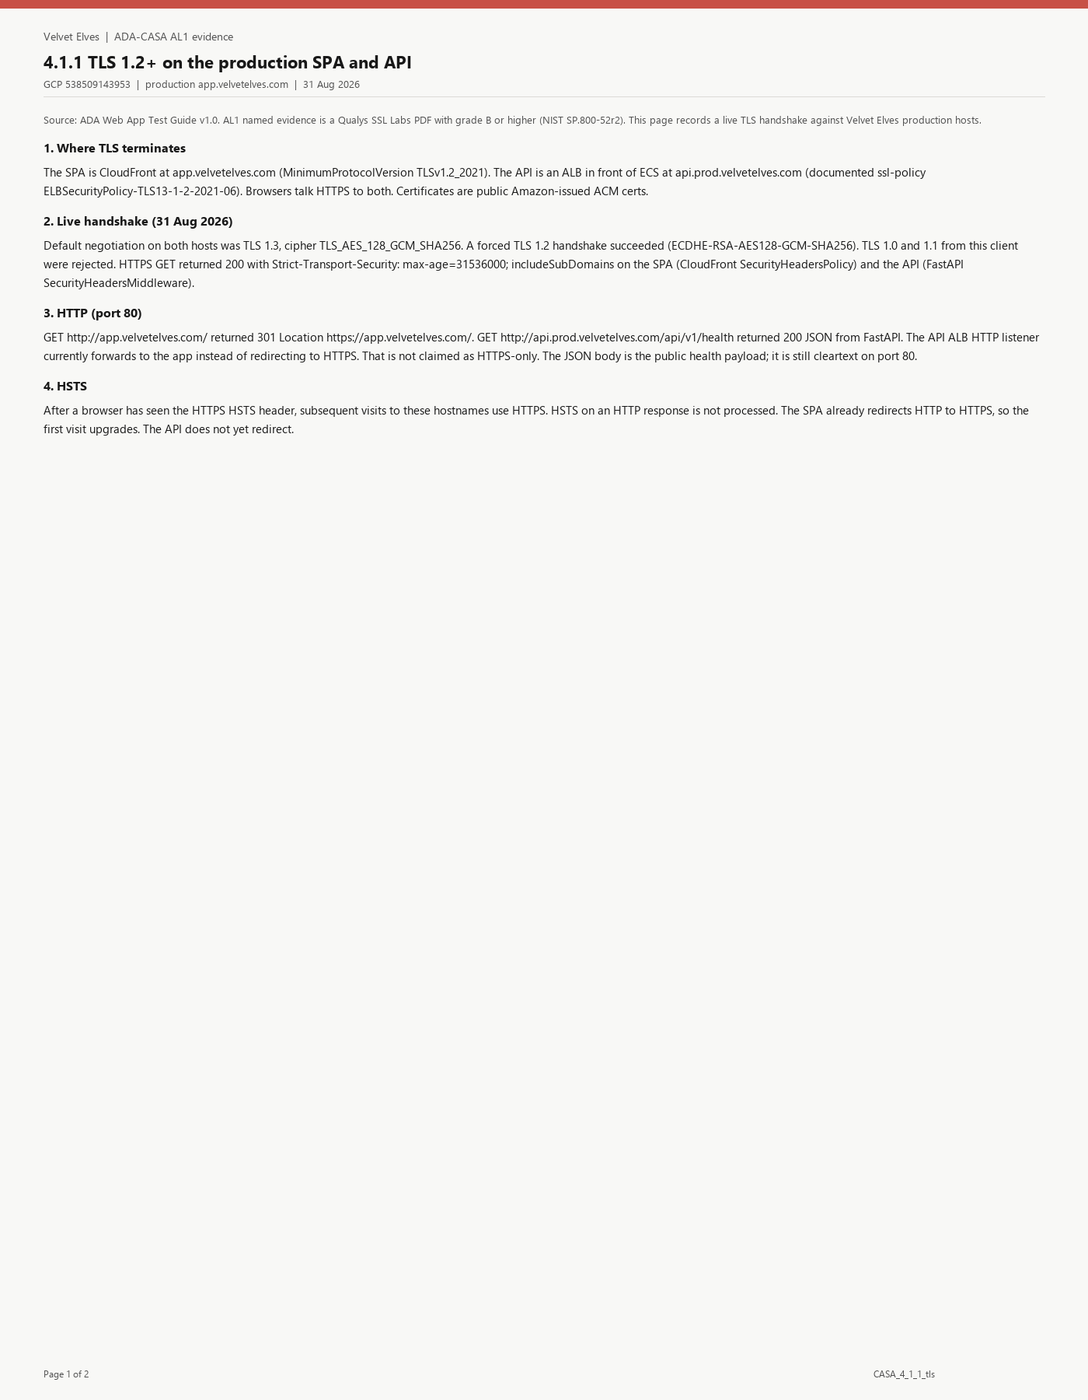
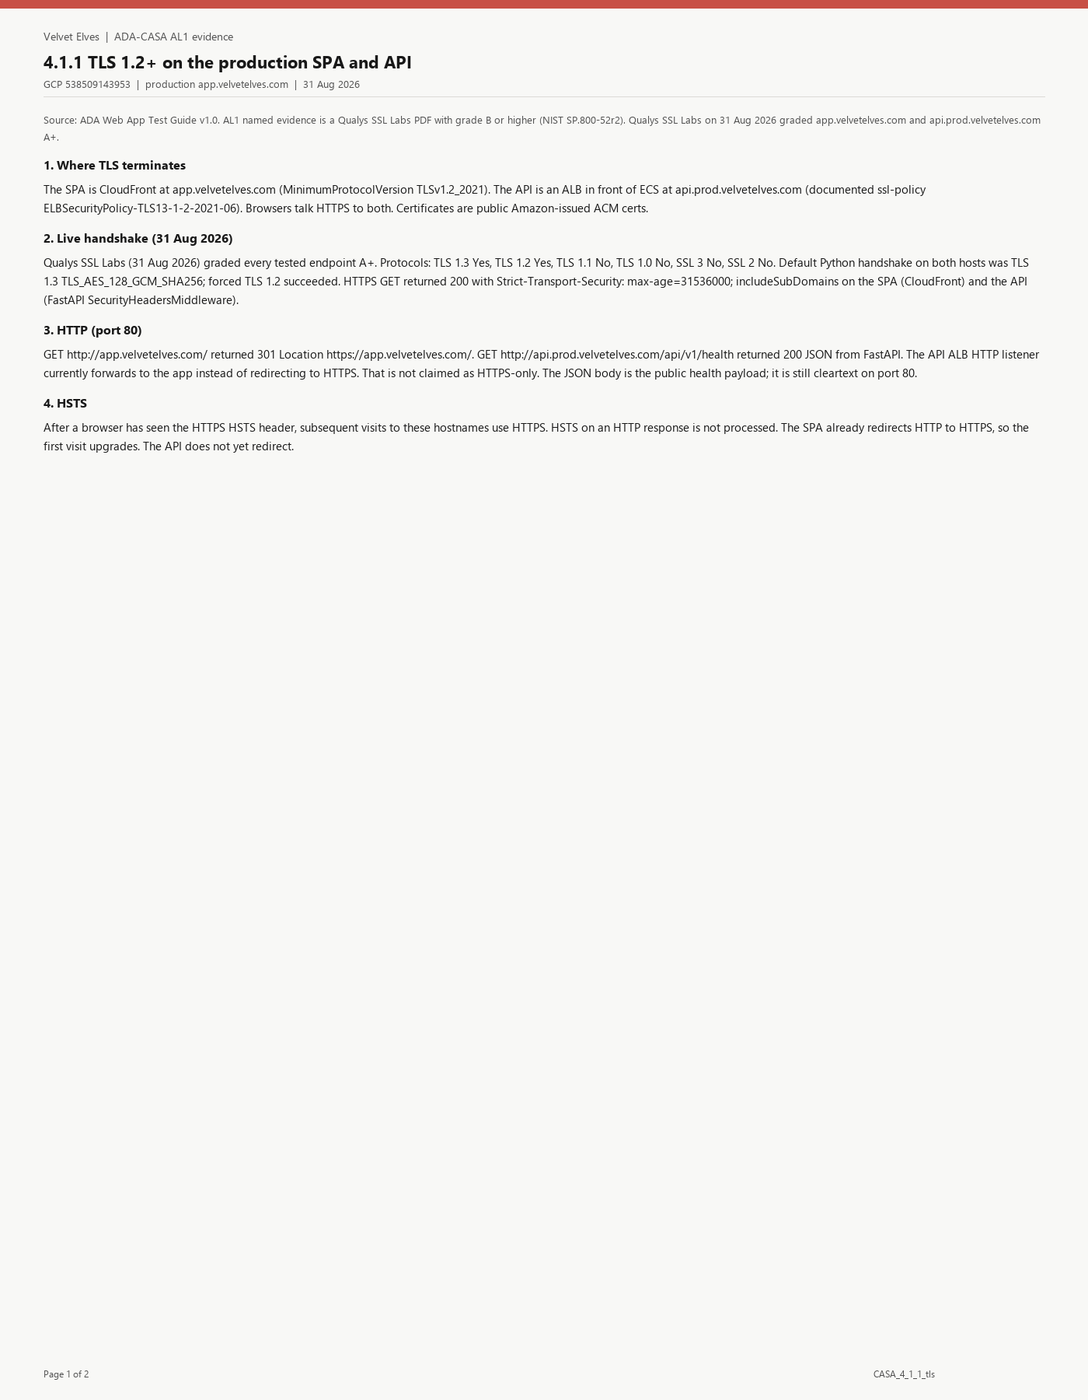
docs(casa): add Qualys SSL Labs A+ screenshots for 4.1.1

Changed region(s): [[0.0307, 0.0933, 0.9521, 0.3111], [0.6757, 0.0622, 0.7064, 0.0933]]

diff --git a/casa_auth_qa/render_casa_411_pages.py b/casa_auth_qa/render_casa_411_pages.py
@@ -99,7 +99,7 @@ def page1():
         y,
         [
             (
-                "Source: ADA Web App Test Guide v1.0. AL1 named evidence is a Qualys SSL Labs PDF with grade B or higher (NIST SP.800-52r2). This page records a live TLS handshake against Velvet Elves production hosts.",
+                "Source: ADA Web App Test Guide v1.0. AL1 named evidence is a Qualys SSL Labs PDF with grade B or higher (NIST SP.800-52r2). Qualys SSL Labs on 31 Aug 2026 graded app.velvetelves.com and api.prod.velvetelves.com A+.",
                 F_SMALL,
                 MUTED,
             ),
@@ -127,7 +127,7 @@ def page1():
         y,
         [
             (
-                "Default negotiation on both hosts was TLS 1.3, cipher TLS_AES_128_GCM_SHA256. A forced TLS 1.2 handshake succeeded (ECDHE-RSA-AES128-GCM-SHA256). TLS 1.0 and 1.1 from this client were rejected. HTTPS GET returned 200 with Strict-Transport-Security: max-age=31536000; includeSubDomains on the SPA (CloudFront SecurityHeadersPolicy) and the API (FastAPI SecurityHeadersMiddleware).",
+                "Qualys SSL Labs (31 Aug 2026) graded every tested endpoint A+. Protocols: TLS 1.3 Yes, TLS 1.2 Yes, TLS 1.1 No, TLS 1.0 No, SSL 3 No, SSL 2 No. Default Python handshake on both hosts was TLS 1.3 TLS_AES_128_GCM_SHA256; forced TLS 1.2 succeeded. HTTPS GET returned 200 with Strict-Transport-Security: max-age=31536000; includeSubDomains on the SPA (CloudFront) and the API (FastAPI SecurityHeadersMiddleware).",
                 F_BODY,
                 INK,
             ),
@@ -186,6 +186,11 @@ def page2():
             True,
         ),
         (
+            "Qualys SSL Labs",
+            "31 Aug 2026: app.velvetelves.com A+ on all CloudFront IPs. api.prod.velvetelves.com A+ on both ALB IPs. TLS 1.3 and 1.2 Yes; TLS 1.1, 1.0, SSL 3, SSL 2 No.",
+            True,
+        ),
+        (
             "API HTTP listener",
             "Port 80 still reaches FastAPI (GET /api/v1/health returned 200 JSON). Not claimed as HTTPS-only.",
             False,
@@ -210,7 +215,7 @@ def page2():
         y,
         [
             (
-                "Velvet Elves production 443 defaults to TLS 1.3, accepts TLS 1.2, and sends HSTS. The SPA upgrades HTTP to HTTPS. The API HTTP listener still forwards to FastAPI on port 80. A Qualys SSL Labs PDF of both hostnames is the ADA-named AL1 evidence for the full protocol and cipher matrix.",
+                "Velvet Elves production 443 defaults to TLS 1.3, accepts TLS 1.2, and sends HSTS. Qualys SSL Labs graded both production hostnames A+ (TLS 1.3 and 1.2 enabled; TLS 1.1 and 1.0 disabled). The SPA upgrades HTTP to HTTPS. The API HTTP listener still forwards to FastAPI on port 80.",
                 F_BODY,
                 INK,
             ),
@@ -268,7 +273,8 @@ test_security_headers_on_not_found
   GET /api/v1/does-not-exist still sends nosniff and X-Frame-Options
 
 Live 31 Aug 2026 (production, not these unit tests):
-  TLS 1.3 default, TLS 1.2 accepted, TLS 1.0/1.1 rejected
+  Qualys SSL Labs A+ on app.velvetelves.com and api.prod.velvetelves.com
+  TLS 1.3 and 1.2 Yes; TLS 1.1 / 1.0 / SSL 3 / SSL 2 No
   SPA HTTP 301 to HTTPS
   API HTTP /api/v1/health 200 (ALB does not redirect yet)"""
     lines = snippet.split("\n")

diff --git a/casa_auth_qa/casa_411_caption_ssllabs.py b/casa_auth_qa/casa_411_caption_ssllabs.py
@@ -1,0 +1,37 @@
+"""Add a hostname caption above SSL Labs protocol screenshots (does not cover Qualys UI)."""
+from pathlib import Path
+
+from PIL import Image, ImageDraw, ImageFont
+
+OUT = Path(r"c:\Projects\velvet-elves-data\casa_al1_evidence\m9\tac_images\4.1.1")
+BANNER = 64
+BG = (248, 248, 246)
+INK = (24, 24, 24)
+MUTED = (80, 80, 80)
+RULE = (200, 80, 70)
+
+
+def font(size: int, bold: bool = False):
+    name = "segoeuib.ttf" if bold else "segoeui.ttf"
+    p = Path(rf"C:\Windows\Fonts\{name}")
+    if p.exists():
+        return ImageFont.truetype(str(p), size)
+    return ImageFont.load_default()
+
+
+def caption(name: str, title: str) -> None:
+    src = OUT / name
+    im = Image.open(src).convert("RGB")
+    out = Image.new("RGB", (im.width, im.height + BANNER), BG)
+    d = ImageDraw.Draw(out)
+    d.rectangle((0, 0, im.width, 8), fill=RULE)
+    d.text((24, 18), title, font=font(16, True), fill=INK)
+    d.text((24, 40), "Qualys SSL Labs configuration  |  31 Aug 2026", font=font(12), fill=MUTED)
+    out.paste(im, (0, BANNER))
+    out.save(src, "PNG")
+    print("captioned", src)
+
+
+if __name__ == "__main__":
+    caption("CASA_4_1_1_ssllabs_app_protocols.png", "app.velvetelves.com  (endpoint 65.8.20.108)")
+    caption("CASA_4_1_1_ssllabs_api_protocols.png", "api.prod.velvetelves.com  (endpoint 3.148.31.71)")

diff --git a/casa_al1_evidence/m9/CASA_PORTAL_PACK.md b/casa_al1_evidence/m9/CASA_PORTAL_PACK.md
@@ -51,7 +51,7 @@ Global do-not-claim (these rows): HttpOnly session cookies; MFA default for **al
 | 24 | 3.2.1 | OAuth authorization code + PKCE | 5 | `CASA_3_2_1_oauth_pkce.md` |
 | 25 | 3.2.2 | OAuth redirect_uri and state | 5 | `CASA_3_2_2_redirect_state.md` |
 | 26 | 3.3.1 | Admin MFA on platform console | 10 | `CASA_3_3_1_admin_mfa.md` |
-| 27 | 4.1.1 | TLS 1.2+ | 5 | `CASA_4_1_1_tls.md` |
+| 27 | 4.1.1 | TLS 1.2+ | 9 | `CASA_4_1_1_tls.md` |
 
 ---
 
@@ -943,31 +943,32 @@ The application administrative interface is the platform console (/api/v1/platfo
 
 **Claimed controls**
 
-- SPA CloudFront `app.velvetelves.com`: TLS 1.3 default, TLS 1.2 accepted, HTTP **301** to HTTPS, HSTS `max-age=31536000; includeSubDomains`.
-- API ALB `api.prod.velvetelves.com`: TLS 1.3 default, TLS 1.2 accepted, HTTPS HSTS from `SecurityHeadersMiddleware`.
-- Certificates: Amazon ACM (public).
-- Live 31 Aug 2026 handshake: `TLS_AES_128_GCM_SHA256` (1.3); forced 1.2 `ECDHE-RSA-AES128-GCM-SHA256`. TLS 1.0/1.1 rejected by this client.
+- Qualys SSL Labs 31 Aug 2026: **A+** on every tested endpoint of `app.velvetelves.com` and `api.prod.velvetelves.com`. TLS 1.3 and 1.2 Yes; TLS 1.1, TLS 1.0, SSL 3, SSL 2 No.
+- SPA CloudFront: HTTP **301** to HTTPS, HSTS `max-age=31536000; includeSubDomains`.
+- API ALB: HTTPS HSTS from `SecurityHeadersMiddleware`. Certificates: Amazon ACM (public).
 
-**Do not claim:** a Qualys letter grade until S5/S6 PNGs are in the folder; that the API is HTTPS-only (HTTP `GET /api/v1/health` returned **200** JSON on 31 Aug 2026); full NIST cipher matrix from this handshake; HttpOnly session cookies.
+**Do not claim:** that the API is HTTPS-only (HTTP `GET /api/v1/health` returned **200** JSON); that the API has no Qualys-flagged weak ciphers (two TLS 1.2 CBC suites are WEAK; grade is still A+); HttpOnly session cookies.
 
-**Owner (S5/S6):** screenshot finished Qualys scans of `app.velvetelves.com` and `api.prod.velvetelves.com` as `CASA_4_1_1_ssllabs_app.png` / `CASA_4_1_1_ssllabs_api.png`. Copy the same two into `tac_images/4.1.2/` for the next row. Do not ask the agent to open ssllabs.com. Also set the API ALB HTTP:80 listener to redirect to HTTPS (already in the production deploy plan).
-
-**Helpers:** `casa_auth_qa/render_casa_411_pages.py`, `casa_411_tls.py`
+**Helpers:** `casa_auth_qa/render_casa_411_pages.py`, `casa_411_tls.py`, `casa_411_ssllabs.mjs` (one host at a time), `casa_411_caption_ssllabs.py` (run once after a fresh protocol shot).
 
 ### Images
 
 | File | Description |
 | --- | --- |
-| [`tac_images/4.1.1/CASA_4_1_1_page1.png`](tac_images/4.1.1/CASA_4_1_1_page1.png) | Written evidence page 1 of 2. TLS termination, live handshake, HTTP port 80, HSTS. |
+| [`tac_images/4.1.1/CASA_4_1_1_page1.png`](tac_images/4.1.1/CASA_4_1_1_page1.png) | Written evidence page 1 of 2. TLS termination, Qualys A+, HTTP port 80, HSTS. |
 | [`tac_images/4.1.1/CASA_4_1_1_page2.png`](tac_images/4.1.1/CASA_4_1_1_page2.png) | Written evidence page 2 of 2. AL1 mapping. API HTTP listener not claimed as HTTPS-only. |
 | [`tac_images/4.1.1/CASA_4_1_1_code.png`](tac_images/4.1.1/CASA_4_1_1_code.png) | FastAPI HSTS middleware; CloudFront TLSv1.2_2021; ALB TLS 1.3/1.2 policy. |
-| [`tac_images/4.1.1/CASA_4_1_1_tests.png`](tac_images/4.1.1/CASA_4_1_1_tests.png) | Named HSTS tests plus live TLS/HTTP notes. |
+| [`tac_images/4.1.1/CASA_4_1_1_tests.png`](tac_images/4.1.1/CASA_4_1_1_tests.png) | Named HSTS tests plus live TLS/Qualys notes. |
 | [`tac_images/4.1.1/CASA_4_1_1_tls.png`](tac_images/4.1.1/CASA_4_1_1_tls.png) | Live production handshake: TLS 1.3/1.2, HSTS, SPA 301, API HTTP health 200. |
+| [`tac_images/4.1.1/CASA_4_1_1_ssllabs_app.png`](tac_images/4.1.1/CASA_4_1_1_ssllabs_app.png) | Qualys SSL Labs: app.velvetelves.com, all endpoints A+. |
+| [`tac_images/4.1.1/CASA_4_1_1_ssllabs_app_protocols.png`](tac_images/4.1.1/CASA_4_1_1_ssllabs_app_protocols.png) | Qualys: SPA TLS 1.3/1.2 Yes; TLS 1.1/1.0 and SSL 3/2 No. |
+| [`tac_images/4.1.1/CASA_4_1_1_ssllabs_api.png`](tac_images/4.1.1/CASA_4_1_1_ssllabs_api.png) | Qualys SSL Labs: api.prod.velvetelves.com, both endpoints A+. |
+| [`tac_images/4.1.1/CASA_4_1_1_ssllabs_api_protocols.png`](tac_images/4.1.1/CASA_4_1_1_ssllabs_api_protocols.png) | Qualys: API TLS 1.3/1.2 Yes; TLS 1.1/1.0 and SSL 3/2 No. |
 
 ### Portal comment
 
 ```
-The production SPA (app.velvetelves.com) and API (api.prod.velvetelves.com) terminate TLS on CloudFront and an ALB. On 31 Aug 2026 a live handshake negotiated TLS 1.3 (TLS_AES_128_GCM_SHA256) on both hosts; TLS 1.2 was also accepted. HTTPS responses send Strict-Transport-Security: max-age=31536000; includeSubDomains. HTTP on the SPA returns 301 to HTTPS. HTTP on the API currently reaches FastAPI (GET /api/v1/health returned 200 JSON); that listener is not claimed as HTTPS-only. Certificates are Amazon ACM.
+The production SPA (app.velvetelves.com) and API (api.prod.velvetelves.com) terminate TLS on CloudFront and an ALB. Qualys SSL Labs on 31 Aug 2026 graded every tested endpoint A+ (TLS 1.3 and 1.2 enabled; TLS 1.1, TLS 1.0, SSL 3, and SSL 2 disabled). HTTPS responses send Strict-Transport-Security: max-age=31536000; includeSubDomains. HTTP on the SPA returns 301 to HTTPS. HTTP on the API currently reaches FastAPI (GET /api/v1/health returned 200 JSON); that listener is not claimed as HTTPS-only. Certificates are Amazon ACM.
 ```
 
 ---
@@ -1004,6 +1005,6 @@ From `casa_auth_qa/` (headless Chrome; one page at a time):
 | 3.2.1 | `python render_casa_321_pages.py` then `python casa_321_pkce.py`. Do **not** attach `/login`. Do **not** recapture Google Cloud Console. Do **not** complete OAuth. |
 | 3.2.2 | `python render_casa_322_pages.py` then `python casa_322_deny.py`. Do **not** attach `/login`. Do **not** recapture Google Cloud Console. Do **not** complete OAuth. |
 | 3.3.1 | `python render_casa_331_pages.py` then `python casa_331_deny.py`. Prod UI: `node casa_331_prod_enroll_shots.mjs` (`QA_PASSWORD`). Folder is the upload set only. |
-| 4.1.1 | `python render_casa_411_pages.py` then `python casa_411_tls.py`. Do **not** recapture ssllabs.com. Owner drops `CASA_4_1_1_ssllabs_app.png` / `ssllabs_api.png` when captured. |
+| 4.1.1 | `python render_casa_411_pages.py` then `python casa_411_tls.py`. SSL Labs: `node casa_411_ssllabs.mjs app` then `node casa_411_ssllabs.mjs api`, then `python casa_411_caption_ssllabs.py` once. |
 
 Eyeball every PNG for cut-off text before re-upload.

diff --git a/casa_al1_evidence/m9/CASA_4_1_1_tls.md b/casa_al1_evidence/m9/CASA_4_1_1_tls.md
@@ -4,23 +4,30 @@
 **ASVS:** 9.1.2  
 **Date:** 31 Aug 2026  
 
-ADA: the application shall enforce TLS for all connections and default to TLS 1.2+. AL1 named evidence is a **Qualys SSL Labs PDF export**, typically grade **B or higher**, reviewed against NIST SP.800-52r2.
+ADA: the application shall enforce TLS for all connections and default to TLS 1.2+. AL1 named evidence is a **Qualys SSL Labs PDF export**, typically grade **B or higher**, reviewed against NIST SP.800-52r2. Portal accepts PNG only; the finished SSL Labs HTML reports were captured as PNG.
 
-## What was measured on Velvet Elves hosts (31 Aug 2026)
+## Qualys SSL Labs (31 Aug 2026)
 
-| Host | Default TLS | Forced TLS 1.2 | TLS 1.0 / 1.1 | HTTPS HSTS |
-| --- | --- | --- | --- | --- |
-| `app.velvetelves.com` | TLS 1.3 `TLS_AES_128_GCM_SHA256` | accepted `ECDHE-RSA-AES128-GCM-SHA256` | rejected (this client) | `max-age=31536000; includeSubDomains` |
-| `api.prod.velvetelves.com` | TLS 1.3 `TLS_AES_128_GCM_SHA256` | accepted `ECDHE-RSA-AES128-GCM-SHA256` | rejected (this client) | `max-age=31536000; includeSubDomains` |
+| Host | Grade | Protocols |
+| --- | --- | --- |
+| `app.velvetelves.com` | **A+** on all tested CloudFront IPv4/IPv6 endpoints | TLS 1.3 Yes, TLS 1.2 Yes, TLS 1.1/1.0 No, SSL 3/2 No |
+| `api.prod.velvetelves.com` | **A+** on both ALB IPv4 endpoints | TLS 1.3 Yes, TLS 1.2 Yes, TLS 1.1/1.0 No, SSL 3/2 No |
 
-Certificates: issuer organization **Amazon** (public ACM). That supports 4.1.2; it is not a Qualys grade.
+SPA ciphers are TLS 1.3 AES-GCM / ChaCha20 and TLS 1.2 ECDHE-RSA AES-GCM / ChaCha20. The API Qualys report also lists two TLS 1.2 CBC suites as **WEAK**; overall grade is still A+. Do not claim the API has no weak cipher suites.
+
+## Live handshake on Velvet Elves hosts (31 Aug 2026)
+
+| Host | Default TLS | Forced TLS 1.2 | HTTPS HSTS |
+| --- | --- | --- | --- |
+| `app.velvetelves.com` | TLS 1.3 `TLS_AES_128_GCM_SHA256` | accepted `ECDHE-RSA-AES128-GCM-SHA256` | `max-age=31536000; includeSubDomains` |
+| `api.prod.velvetelves.com` | TLS 1.3 `TLS_AES_128_GCM_SHA256` | accepted `ECDHE-RSA-AES128-GCM-SHA256` | `max-age=31536000; includeSubDomains` |
+
+Certificates: issuer organization **Amazon** (public ACM). That supports 4.1.2.
 
 HTTP:
 
 - `GET http://app.velvetelves.com/` → **301** `Location: https://app.velvetelves.com/`
-- `GET http://api.prod.velvetelves.com/api/v1/health` → **200** JSON `{"status":"ok","env":"production",...}` from FastAPI. The ALB HTTP listener currently **forwards** to the app. Do **not** claim the API is HTTPS-only.
-
-TLS 1.0/1.1 “rejected” is from this workstation’s TLS client (OpenSSL also deprecates those versions). Qualys SSL Labs is the ADA-named server-side protocol matrix.
+- `GET http://api.prod.velvetelves.com/api/v1/health` → **200** JSON from FastAPI. The ALB HTTP listener currently **forwards** to the app. Do **not** claim the API is HTTPS-only.
 
 ## Architecture (not a live AWS console shot)
 
@@ -34,24 +41,14 @@ The production deploy plan already says the ALB HTTP listener should redirect to
 `test_health_response_includes_security_headers` — HSTS on `/api/v1/health`.  
 `test_security_headers_on_not_found` — nosniff / X-Frame-Options on 404.
 
-## Owner captures (S5 / S6) — required for ADA AL1
-
-Do **not** ask the agent to screenshot ssllabs.com. Drop PNGs in `tac_images/4.1.1/` (copy the same two into `tac_images/4.1.2/` for the next row):
-
-1. https://www.ssllabs.com/ssltest/analyze.html?d=app.velvetelves.com  
-2. https://www.ssllabs.com/ssltest/analyze.html?d=api.prod.velvetelves.com  
-3. Wait until the scan **finishes**. Screenshot the summary: hostname, overall grade, protocol list (1.2 / 1.3). Portal accepts PNG/JPG only — if Qualys offers a PDF, screenshot the first page or convert.  
-4. Filenames: `CASA_4_1_1_ssllabs_app.png`, `CASA_4_1_1_ssllabs_api.png`. No account keys in frame.
-
 ## Do not claim
 
-- A Qualys letter grade without the owner screenshots.
 - That the API is HTTPS-only while port 80 returns FastAPI JSON.
-- Full NIST SP.800-52r2 cipher compliance from a single Python handshake.
+- That the API has no Qualys-flagged weak ciphers (two TLS 1.2 CBC suites are WEAK; grade is still A+).
 - HttpOnly session cookies; MFA for all users.
 
 ## Portal comment
 
 ```
-The production SPA (app.velvetelves.com) and API (api.prod.velvetelves.com) terminate TLS on CloudFront and an ALB. On 31 Aug 2026 a live handshake negotiated TLS 1.3 (TLS_AES_128_GCM_SHA256) on both hosts; TLS 1.2 was also accepted. HTTPS responses send Strict-Transport-Security: max-age=31536000; includeSubDomains. HTTP on the SPA returns 301 to HTTPS. HTTP on the API currently reaches FastAPI (GET /api/v1/health returned 200 JSON); that listener is not claimed as HTTPS-only. Certificates are Amazon ACM.
+The production SPA (app.velvetelves.com) and API (api.prod.velvetelves.com) terminate TLS on CloudFront and an ALB. Qualys SSL Labs on 31 Aug 2026 graded every tested endpoint A+ (TLS 1.3 and 1.2 enabled; TLS 1.1, TLS 1.0, SSL 3, and SSL 2 disabled). HTTPS responses send Strict-Transport-Security: max-age=31536000; includeSubDomains. HTTP on the SPA returns 301 to HTTPS. HTTP on the API currently reaches FastAPI (GET /api/v1/health returned 200 JSON); that listener is not claimed as HTTPS-only. Certificates are Amazon ACM.
 ```

diff --git a/CASA/TAC_ESOF_PORTAL_GUIDE.md b/CASA/TAC_ESOF_PORTAL_GUIDE.md
@@ -252,7 +252,7 @@ Comments (punctuation allowed) and files:
 | 24 | 3.2.1 OAuth code plus PKCE | `tac_images/3.2.1/` — `CASA_3_2_1_page1.png`, `page2.png`, `code.png`, `tests.png`, `pkce.png` | Velvet Elves OAuth is authorization code with PKCE (S256). Google and Microsoft sign-in start at POST /users/oauth/{provider}/start and pass code_challenge to Supabase /auth/v1/authorize. Gmail, Outlook, Calendar, and DocuSign authorize URLs set response_type=code plus code_challenge_method=S256. There is no implicit flow and no resource-owner password grant to those providers. Staging POST /users/oauth/google/start returned a PKCE authorize URL (s256); the flow was not completed. Unsigned POST /integrations/gmail/authorize-url returns 401. |
 | 25 | 3.2.2 redirect uri and state | `tac_images/3.2.2/` — `CASA_3_2_2_page1.png`, `page2.png`, `code.png`, `tests.png`, `deny.png` | OAuth redirect_uri and state are validated to prevent open redirect and OAuth CSRF. Google and Microsoft sign-in redirect_to must match an allowlisted SPA origin; a foreign origin returns 400. Sign-in state is a Fernet token with a 10-minute TTL; a forged state on POST /users/oauth/google/exchange returns 400 Invalid or expired OAuth state. Gmail, Outlook, Calendar, and DocuSign redirect_uri is set by the API from configuration, not by the client. Integration state binds user, provider, and redirect_uri. Callback postMessage targets FRONTEND_URL, not *. Staging: foreign redirect_to 400; garbage state 400. |
 | 26 | 3.3.1 admin MFA | `tac_images/3.3.1/` — `CASA_3_3_1_page1.png`, `page2.png`, `code.png`, `tests.png`, `deny.png`, `stage_mfa_prompt.png`, `stage_platform_code.png`, `stage_security_on.png`, `prod_mfa_prompt.png`, `prod_security_on.png` | The application administrative interface is the platform console (/api/v1/platform/*). Those routes require is_platform_admin plus a JWT aal2 claim and a live verified TOTP factor (PLATFORM_ADMIN_MFA_REQUIRED defaults true). Login of an enrolled admin returns mfa_required until the authenticator code is verified. The SPA PlatformMfaGate blocks the console until a code is entered. Staging and production both show the two-step prompt and Security authenticator app is on. Unsigned GET /platform/users returns 401. Tenant Admin is a workspace role and is not this interface; MFA is not required for all users. |
-| 27 | 4.1.1 TLS 1 2 plus | `tac_images/4.1.1/` — `CASA_4_1_1_page1.png`, `page2.png`, `code.png`, `tests.png`, `tls.png` (add owner `ssllabs_app.png` / `ssllabs_api.png` when captured) | The production SPA (app.velvetelves.com) and API (api.prod.velvetelves.com) terminate TLS on CloudFront and an ALB. On 31 Aug 2026 a live handshake negotiated TLS 1.3 (TLS_AES_128_GCM_SHA256) on both hosts; TLS 1.2 was also accepted. HTTPS responses send Strict-Transport-Security: max-age=31536000; includeSubDomains. HTTP on the SPA returns 301 to HTTPS. HTTP on the API currently reaches FastAPI (GET /api/v1/health returned 200 JSON); that listener is not claimed as HTTPS-only. Certificates are Amazon ACM. |
+| 27 | 4.1.1 TLS 1 2 plus | `tac_images/4.1.1/` — `CASA_4_1_1_page1.png`, `page2.png`, `code.png`, `tests.png`, `tls.png`, `ssllabs_app.png`, `ssllabs_app_protocols.png`, `ssllabs_api.png`, `ssllabs_api_protocols.png` | The production SPA (app.velvetelves.com) and API (api.prod.velvetelves.com) terminate TLS on CloudFront and an ALB. Qualys SSL Labs on 31 Aug 2026 graded every tested endpoint A+ (TLS 1.3 and 1.2 enabled; TLS 1.1, TLS 1.0, SSL 3, and SSL 2 disabled). HTTPS responses send Strict-Transport-Security: max-age=31536000; includeSubDomains. HTTP on the SPA returns 301 to HTTPS. HTTP on the API currently reaches FastAPI (GET /api/v1/health returned 200 JSON); that listener is not claimed as HTTPS-only. Certificates are Amazon ACM. |
 | 28 | 4.1.2 trusted certs | `M9a_architecture.md` | Public ACM certificates No self signed on app velvetelves com |
 | 29 | 4.1.3 no weak crypto on secrets | `M9e_pii_encryption.md` | Tokens and PII at rest use Fernet AES SHA1 is only a short proposal id Low |
 | 30 | 4.1.4 crypto fail securely | `M9e_pii_encryption.md` | Fernet decrypt failures do not return plaintext |

diff --git a/CASA/CASA_48_CHECKS_REVISION_PLAN.md b/CASA/CASA_48_CHECKS_REVISION_PLAN.md
@@ -71,8 +71,8 @@ All Velvet Elves screenshots go to `casa_al1_evidence/m9/tac_images/<check-id>/`
 | S2 | Access-token expiry — **done 28 Aug 2026** via live staging JWT `exp − iat` = 8 h (not the 1 h default). Packed as 2.2.3. Owner Sessions/JWT dashboard shot is optional backup. | Staging login decode + `decode_access_token` | 12 |
 | S3 | OTP / reset token expiry + single-use | Supabase → Authentication → Email settings | 5–8 |
 | S4 | Password change revokes other sessions — **done 28 Aug 2026** via GoTrue source (`UpdatePassword` → LogoutAllExceptMe / Logout), not a dashboard toggle. Packed as 2.2.2. | GoTrue public source + confirm code | 11 |
-| S5 | SSL Labs grade `app.velvetelves.com` | ssllabs.com/ssltest | 27, 28 |
-| S6 | SSL Labs grade `api.prod.velvetelves.com` | ssllabs.com/ssltest | 27, 28 |
+| S5 | SSL Labs grade `app.velvetelves.com` — **done 31 Aug 2026**, A+ all endpoints | ssllabs.com/ssltest | 27, 28 |
+| S6 | SSL Labs grade `api.prod.velvetelves.com` — **done 31 Aug 2026**, A+ both endpoints | ssllabs.com/ssltest | 27, 28 |
 | S7 | Register 429 after 6 rapid signups | staging, DevTools network tab | 1, 22 |
 | S8 | Register password-rules UI (8+, upper, lower, digit, symbol) | staging register page | 1, 2 |
 | S9 | Route 53 hosted zone review — no dangling CNAMEs | AWS console | 45 |
@@ -171,7 +171,7 @@ Verdicts from `GAP_ANALYSIS_48_CHECKS.md`. Comments: §7 of the portal guide.
 | 24 | 3.2.1 | Ready (authorization code + PKCE S256; no implicit/ROPC; staging start 200) | CASA_3_2_1 | [ ] |
 | 25 | 3.2.2 | Ready (redirect_to origin allowlist; Fernet state TTL; staging 400s) | CASA_3_2_2 | [ ] |
 | 26 | 3.3.1 | Ready (platform TOTP aal2; staging/prod UI; unsigned 401) | CASA_3_3_1 | [ ] |
-| 27 | 4.1.1 | Packed 31 Aug (live TLS 1.3/1.2 + HSTS; API HTTP still 200). Needs S5/S6 Qualys PNGs + ALB HTTP→HTTPS redirect | CASA_4_1_1 + SSL Labs | [ ] |
+| 27 | 4.1.1 | Packed 31 Aug (Qualys A+ both hosts; live TLS 1.3/1.2 + HSTS; API HTTP still 200). ALB HTTP→HTTPS redirect still recommended | CASA_4_1_1 + SSL Labs | [ ] |
 | 28 | 4.1.2 | Ready + S5/S6 | M9a + SSL Labs | [ ] |
 | 29 | 4.1.3 | Ready | M9e | [ ] |
 | 30 | 4.1.4 | Ready | M9e | [ ] |

diff --git a/casa_al1_evidence/m9/GAP_ANALYSIS_48_CHECKS.md b/casa_al1_evidence/m9/GAP_ANALYSIS_48_CHECKS.md
@@ -20,7 +20,7 @@
 | 2.2.2 | **Verified 28 Aug 2026.** Not a dashboard toggle. Password change is reset/recovery (`POST /users/password-reset/confirm`). GoTrue `User.UpdatePassword` then `LogoutAllExceptMe` (recovery session) or `Logout` all sessions (admin password update, `sessionID` nil). Packed in `CASA_PORTAL_PACK.md`. Do not claim a live two-device reset. |
 | 2.2.3 | **Verified 28 Aug 2026.** Staging access JWT `exp − iat` = **28800 s (8.00 hours)**, under 24 h. Packed in `CASA_PORTAL_PACK.md`. Do not claim the 1-hour GoTrue default. Owner Sessions/JWT dashboard shot (S2) is optional backup. |
 | 1.3.x | Supabase OTP/reset token expiry + single use. Screenshot the auth settings page. |
-| 4.1.1/4.1.2 | **4.1.1 packed 31 Aug 2026** (live TLS 1.3/1.2 + HSTS on production SPA/API). Still need owner Qualys SSL Labs PNGs (S5/S6) — ADA names that PDF. Also: API ALB HTTP:80 still serves FastAPI (`GET /api/v1/health` **200**); set it to redirect to HTTPS. 4.1.2 reuses the same SSL Labs shots plus Amazon ACM issuer already measured. |
+| 4.1.1/4.1.2 | **4.1.1 packed 31 Aug 2026** including Qualys SSL Labs PNGs: **A+** on `app.velvetelves.com` and `api.prod.velvetelves.com` (TLS 1.3/1.2 Yes; 1.1/1.0 No). API ALB HTTP:80 still serves FastAPI (`GET /api/v1/health` **200**); set it to redirect to HTTPS. 4.1.2 reuses the same SSL Labs shots plus Amazon ACM issuer. |
 | 6.4.1 | Quick Route 53 review: no dangling CNAMEs to dead services. Attest. |
 | 1.1.1/3.1.5 | Staging register 429 screenshot (6 signups in a minute) + register password-rules UI. |
 
